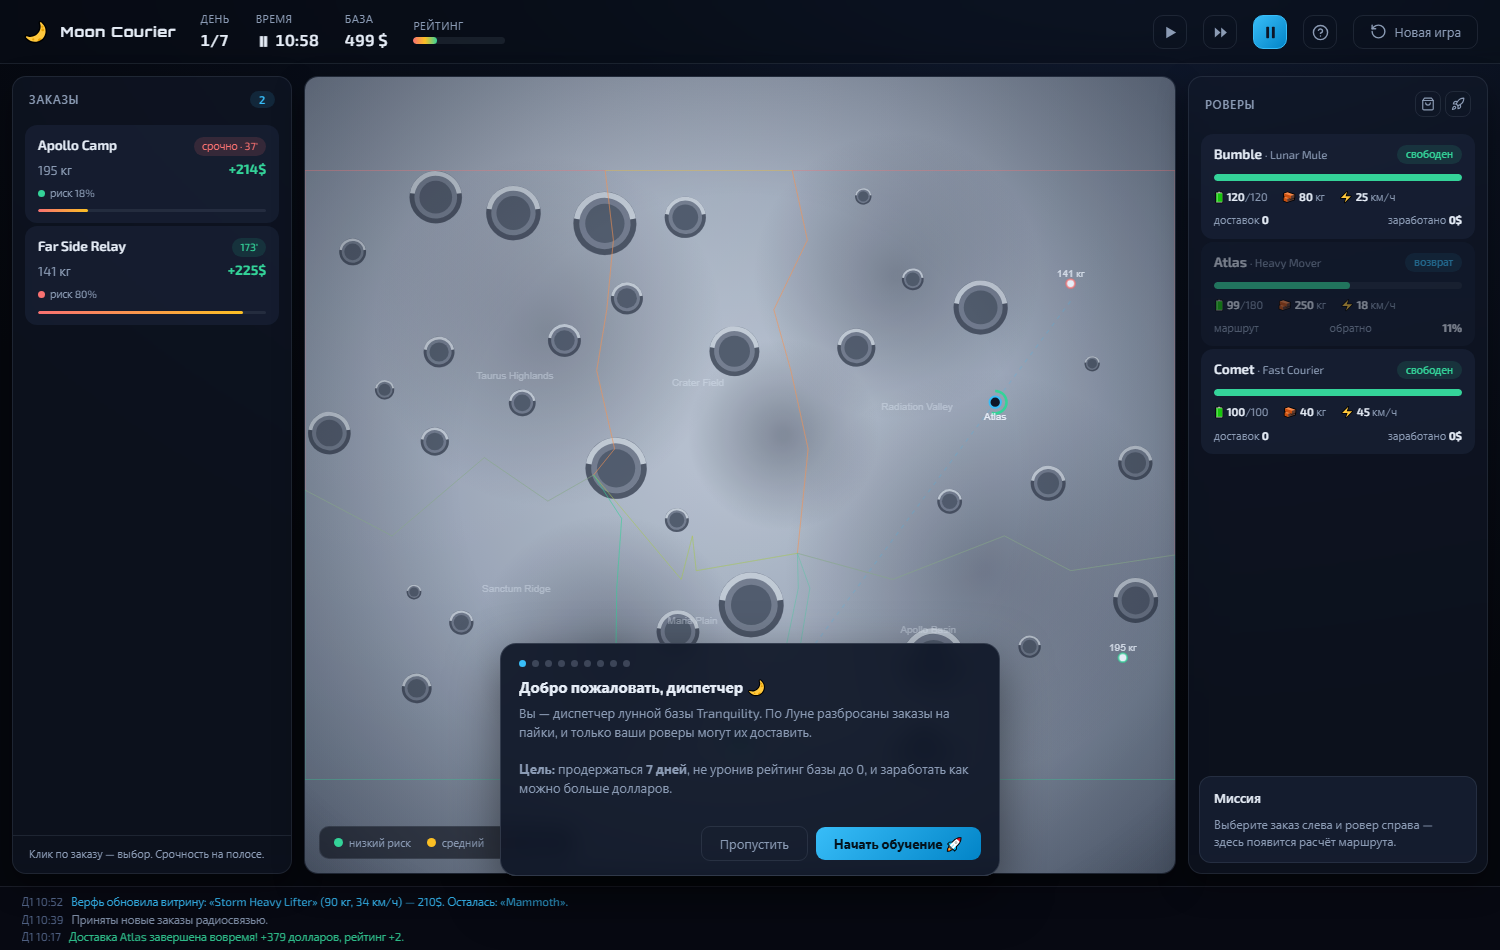
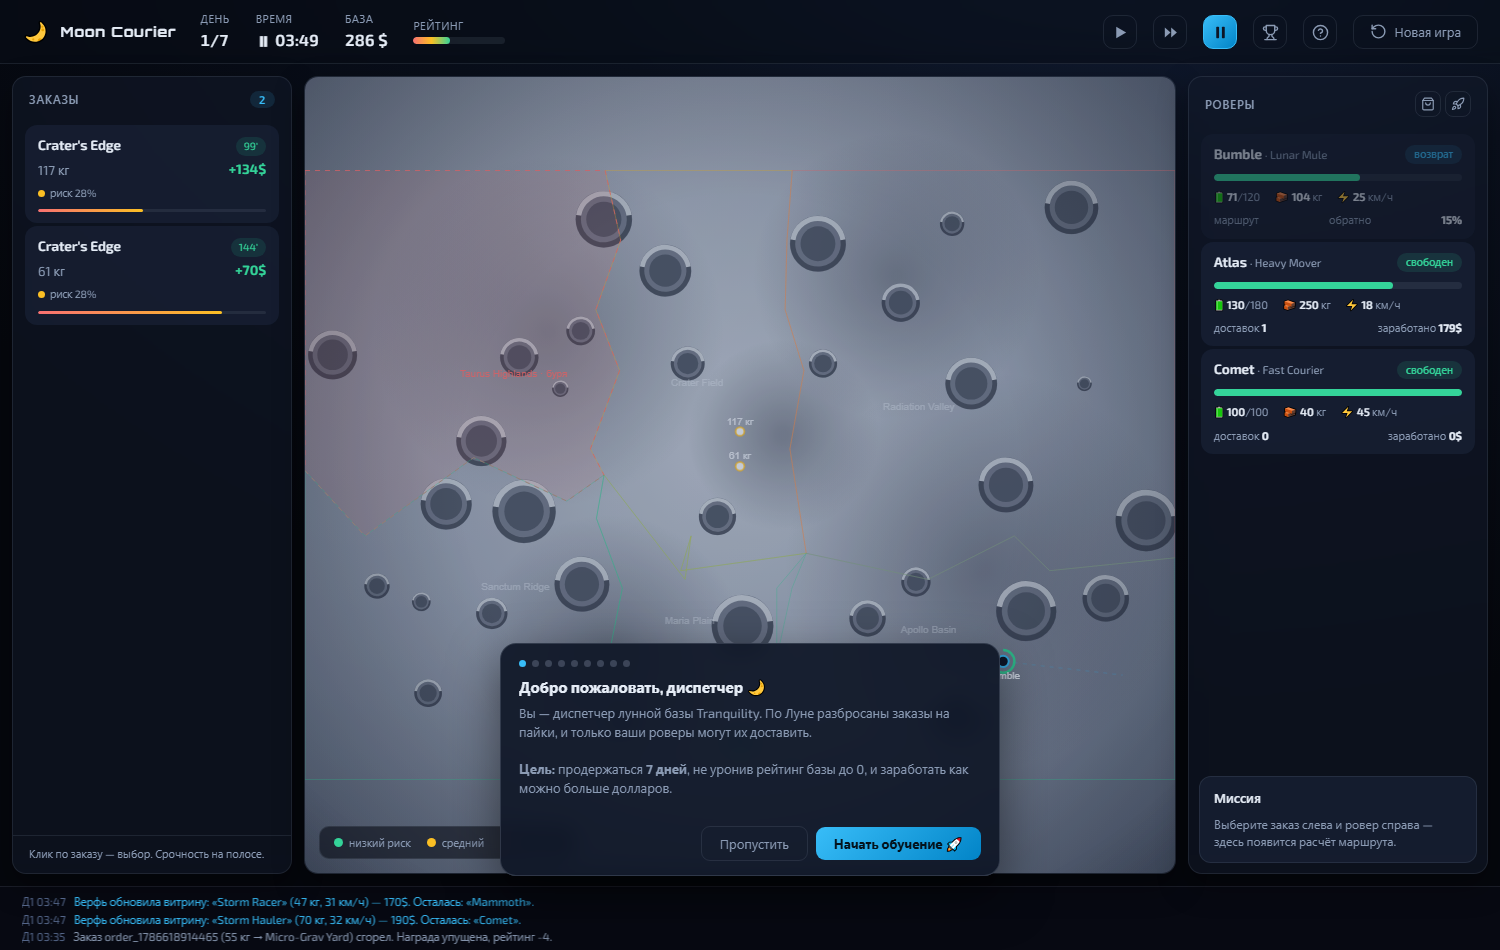
Убрано стартовое меню (игра сразу). Таблица лидеров — кнопка 🏆 в шапке. Имя пилота вводится на экране финала при победе/проигрыше

diff --git a/public/index.html b/public/index.html
@@ -19,6 +19,7 @@
   <button id="btn-play" class="icon" title="Обычная скорость (×1)"><svg viewBox="0 0 24 24" fill="currentColor" stroke="none"><path d="M6 4l14 8-14 8z"/></svg></button>
   <button id="btn-ff" class="icon" title="Ускорение (×5)"><svg viewBox="0 0 24 24" fill="currentColor" stroke="none"><path d="M4 5l8 7-8 7z"/><path d="M13 5l8 7-8 7z"/></svg></button>
   <button id="btn-pause" class="icon" title="Пауза"><svg viewBox="0 0 24 24" fill="currentColor" stroke="none"><rect x="6" y="4" width="4" height="16" rx="1"/><rect x="14" y="4" width="4" height="16" rx="1"/></svg></button>
+  <button id="btn-leaders" class="icon" title="Таблица лидеров"><svg viewBox="0 0 24 24" fill="none" stroke="currentColor" stroke-width="2" stroke-linecap="round" stroke-linejoin="round"><path d="M6 9H4.5a2.5 2.5 0 0 1 0-5H6"/><path d="M18 9h1.5a2.5 2.5 0 0 0 0-5H18"/><path d="M4 22h16"/><path d="M10 14.66V17c0 .55-.47.98-.97 1.21C7.85 18.75 7 20.24 7 22"/><path d="M14 14.66V17c0 .55.47.98.97 1.21C16.15 18.75 17 20.24 17 22"/><path d="M18 2H6v7a6 6 0 0 0 12 0V2Z"/></svg></button>
   <button id="btn-help" class="icon" title="Правила"><svg viewBox="0 0 24 24" fill="none" stroke="currentColor" stroke-width="2" stroke-linecap="round" stroke-linejoin="round"><circle cx="12" cy="12" r="10"/><path d="M9.09 9a3 3 0 0 1 5.83 1c0 2-3 3-3 3"/><path d="M12 17h.01"/></svg></button>
   <button id="btn-reset" class="ghost"><svg viewBox="0 0 24 24" fill="none" stroke="currentColor" stroke-width="2" stroke-linecap="round" stroke-linejoin="round"><path d="M3 12a9 9 0 1 0 9-9 9.75 9.75 0 0 0-6.74 2.74L3 8"/><path d="M3 3v5h5"/></svg>Новая игра</button>
 </header>
@@ -68,33 +69,6 @@
 </div>
 
 <div id="overlay" class="hidden"><div id="modal" class="modal"></div></div>
-
-<div id="menu" class="hidden">
-  <div class="menu-card">
-    <div class="menu-logo">🌙<span>Moon Courier</span></div>
-    <div class="menu-sub">Симулятор лунной доставки</div>
-    <div id="menu-screen">
-      <button class="menu-btn" id="menu-play"><svg viewBox="0 0 24 24" fill="currentColor" stroke="none"><path d="M6 4l14 8-14 8z"/></svg>Играть</button>
-      <button class="menu-btn" id="menu-settings">Настройки</button>
-      <button class="menu-btn" id="menu-scores">Таблица лидеров</button>
-    </div>
-    <div id="menu-settings-screen" class="hidden">
-      <div class="menu-title">Настройки</div>
-      <label class="menu-lab">Имя пилота (для таблицы лидеров)
-        <input id="menu-name" type="text" maxlength="16" placeholder="Диспетчер"/>
-      </label>
-      <div class="menu-row">
-        <button class="menu-btn sm" id="menu-settings-ok">Сохранить</button>
-        <button class="menu-btn sm ghost" id="menu-settings-back">← Назад</button>
-      </div>
-    </div>
-    <div id="menu-scores-screen" class="hidden">
-      <div class="menu-title">Таблица лидеров</div>
-      <div id="menu-scores-list"></div>
-      <div class="menu-row"><button class="menu-btn sm ghost" id="menu-scores-back">← Назад</button></div>
-    </div>
-  </div>
-</div>
 
 <script src="/static/app.js"></script>
 <script src="/static/tutorial.js"></script>

diff --git a/public/style.css b/public/style.css
@@ -219,19 +219,11 @@ button.icon.sm{width:26px;height:26px;font-size:13px;border-radius:8px}
 .oc.sel,.rc.sel{animation:pulseR 2s ease-in-out infinite}
 @keyframes stormP{0%,100%{opacity:.35}50%{opacity:1}}
 
-/* -------- главное меню -------- */
-#menu{position:fixed;inset:0;z-index:80;display:flex;align-items:center;justify-content:center;
-  background:radial-gradient(900px 500px at 50% -10%, #1b2b4d 0%, var(--bg1) 55%, var(--bg0) 100%)}
-#menu.hidden{display:none}
-.menu-card{width:min(430px,92vw);background:rgba(12,18,32,.85);border:1px solid var(--line2);border-radius:20px;
-  padding:34px 30px 30px;box-shadow:0 24px 70px rgba(0,0,0,.55);text-align:center}
-.menu-logo{font-family:"Orbitron",sans-serif;font-size:44px;font-weight:800;letter-spacing:3px;display:flex;
-  align-items:center;justify-content:center;gap:12px;background:linear-gradient(135deg,#7dd3fc,#38bdf8,#818cf8);
-  -webkit-background-clip:text;background-clip:text;color:transparent}
-.menu-sub{color:var(--dim);font-size:12.5px;letter-spacing:1.5px;text-transform:uppercase;margin:6px 0 26px}
+/* -------- кнопки/формы/таблица лидеров -------- */
 .menu-btn{display:block;width:100%;border:1px solid var(--line2);border-radius:13px;padding:13px 18px;margin-bottom:12px;
   background:var(--glass);color:var(--txt);font-size:15px;font-weight:600;transition:.15s;text-align:center}
 .menu-btn:hover{border-color:var(--acc);background:rgba(56,189,248,.1);transform:translateY(-1px)}
+.menu-btn:disabled{opacity:.5;cursor:default;transform:none;border-color:var(--line2);background:var(--glass)}
 .menu-btn svg{width:18px;height:18px;vertical-align:-3px;margin-right:8px;color:var(--acc)}
 .menu-btn.sm{width:auto;display:inline-block;padding:10px 22px;font-size:13.5px;margin:0}
 .menu-btn.sm.ghost{background:transparent;color:var(--dim)}
@@ -242,8 +234,8 @@ button.icon.sm{width:26px;height:26px;font-size:13px;border-radius:8px}
   color:var(--txt);font:14px/1.4 "Exo 2",sans-serif;padding:10px 13px;outline:none}
 .menu-lab input:focus{border-color:var(--acc)}
 .menu-row{display:flex;gap:10px;justify-content:center;margin-top:6px}
-#menu-scores-list{max-height:300px;overflow:auto;margin-bottom:18px}
 .menu-empty{color:var(--dim);font-size:13px;padding:14px 0}
+#go-table{max-height:280px;overflow:auto;margin-top:16px}
 .scores{width:100%;border-collapse:collapse;font-size:13px;text-align:left}
 .scores th{color:var(--dim);font-size:11px;text-transform:uppercase;letter-spacing:.8px;
   border-bottom:1px solid var(--line2);padding:5px 8px}

diff --git a/README.md b/README.md
@@ -17,19 +17,19 @@ python server.py            # http://localhost:8000
 python server.py 8137
 ```
 
-Откройте в браузере **http://localhost:8000** — появится главное меню: «Играть» (имя пилота можно задать в «Настройках»), «Таблица лидеров» (топ-10 лучших результатов). Кнопка «?» в игре — справка с правилами. При первом входе запускается **интерактивный онбординг**: он подсвечивает панели и просит реально выбрать заказ, ровер и запустить доставку.
+Откройте в браузере **http://localhost:8000** — игра начинается сразу. Кнопка «?» в шапке — справка с правилами, 🏆 — таблица лидеров. При первом входе запускается **интерактивный онбординг**: он подсвечивает панели и просит реально выбрать заказ, ровер и запустить доставку. Имя пилота для таблицы лидеров вводится при завершении партии (победа или закрытие базы).
 
 Быстрый старт в Windows: двойной клик по `start.bat`.
 
-Сохранение — автоматическое в `data/*.json`. Новая игра — кнопка «Новая игра» или `POST /api/cmd {"cmd":"reset"}` (`?noMenu=1` в адресе — пропустить главное меню).
+Сохранение — автоматическое в `data/*.json`. Новая игра — кнопка «Новая игра» или `POST /api/cmd {"cmd":"reset"}`.
 
 ---
 
 ## Скриншоты
 
-| Главное меню | Игровой экран (карта Луны, заказы, роверы) |
-|---|---|
-| ![Главное меню](screenshots/menu.png) | ![Игровой экран](screenshots/game.png) |
+| Игровой экран (карта Луны, заказы, роверы) |
+|---|
+| ![Игровой экран](screenshots/game.png) |
 
 Карта Луны рисуется процедурно: случайный мир каждой партии — 6 зон с ломаными границами и 32 кратера, ночь/день, роверы с кольцом батареи, точки заказов на карте, маршруты с объездом препятствий.
 
@@ -118,7 +118,7 @@ python server.py 8137
 
 ## Что сделано и что использовано из AI
 
-- Полностью самодостаточная браузерная игра: канвас-карта Луны (случайный мир: зоны, кратеры, точки заказов, роверы с кольцом батареи, ночь/день), панели заказов и роверов, оценка миссии, журнал событий, справка, экран финала, главное меню с настройками и таблицей лидеров.
+- Полностью самодостаточная браузерная игра: канвас-карта Луны (случайный мир: зоны, кратеры, точки заказов, роверы с кольцом батареи, ночь/день), панели заказов и роверов, оценка миссии, журнал событий, справка, экран финала с вводом имени и таблицей лидеров (топ-10 в localStorage).
 - Бэкенд — Python stdlib (HTTP + фоновая симуляция + хранилище JSON).
 - Сгенерировано opencode (AI-ассистент): архитектура, вся логика симуляции, интерфейс и текст. Числа баланса подобраны вручную и проверены прогоном сценариев (вес, батарея, буря, застрявший ровер, game over). Случайная генерация мира (зоны-мозаика, кратеры) — собственная процедурная логика.
 
